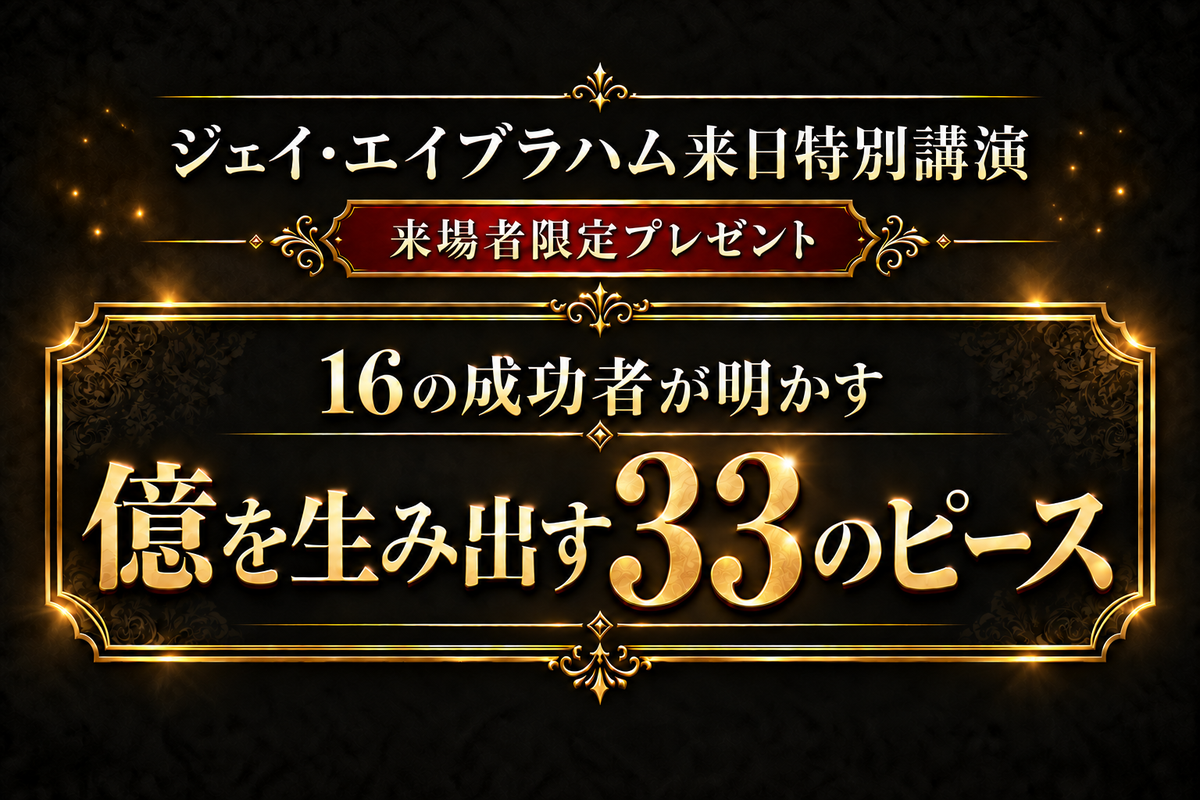
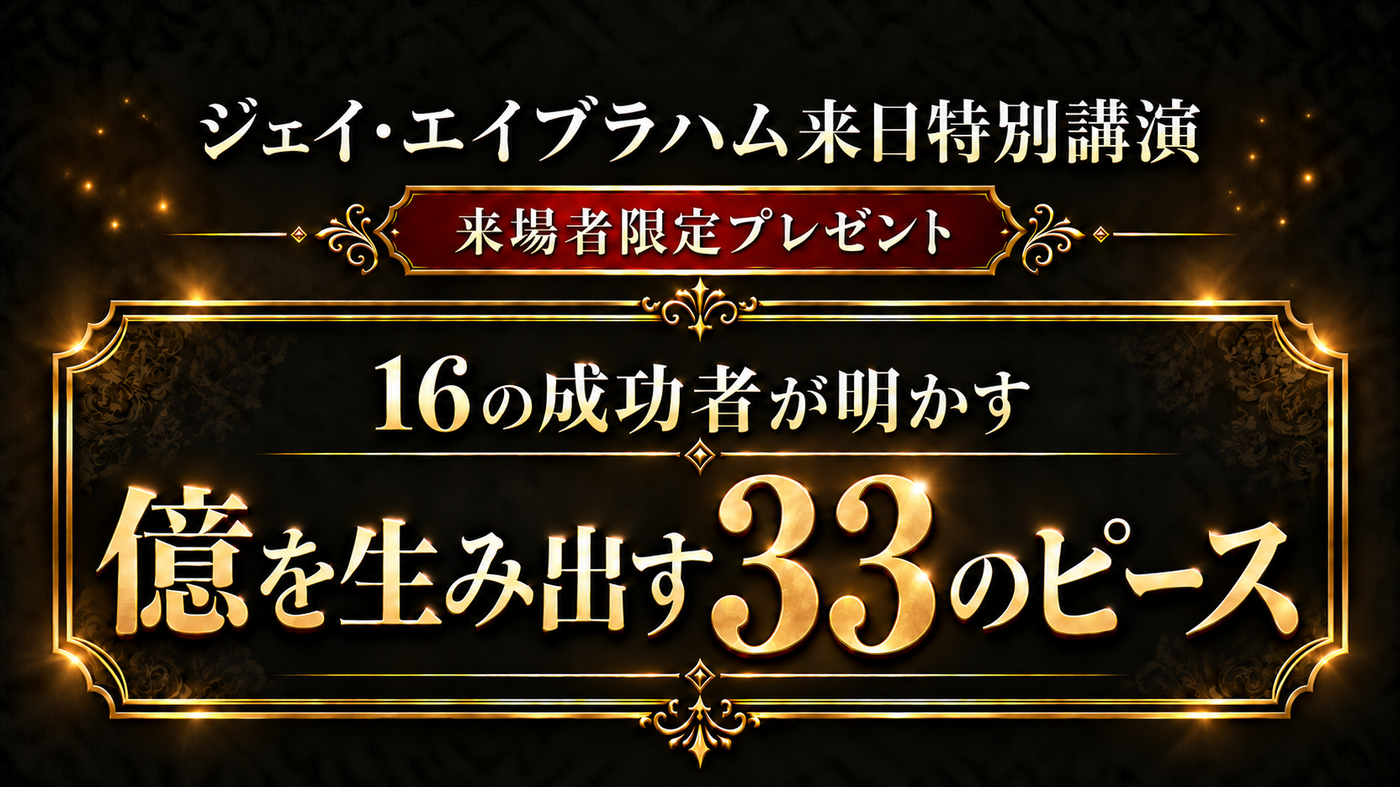
Add files via upload

diff --git a/jay-abraham-tokuten-html/index.html b/jay-abraham-tokuten-html/index.html
@@ -47,7 +47,7 @@
       position:relative;
       overflow:hidden;
       text-align:center;
-      padding:40px 20px 44px;
+      padding:40px 20px 0px;
       background:transparent;
     }
     .hero-banner{
@@ -108,7 +108,7 @@
       filter:drop-shadow(1px 0 0 #4a0705);
     }
     .cta-note{margin:14px 0 0;font-size:11.5px;color:#a99a78;letter-spacing:.02em;text-align:center;}
-    .list{position:relative;max-width:640px;margin:0 auto;padding:44px 20px 90px;background:transparent;}
+    .list{position:relative;max-width:640px;margin:0 auto;padding:4px 20px 90px;background:transparent;}
     .item{position:relative;z-index:1;}
     .item .pill-inner{
       font-family:"Shippori Mincho",serif;
@@ -141,8 +141,11 @@
     }
     .thumb svg.icon{width:34px;height:34px;stroke:rgba(209,169,74,0.55);z-index:1;}
     .thumb-img{position:absolute;inset:0;width:100%;height:100%;object-fit:cover;z-index:1;}
+    .excl{font-family:"Zen Kaku Gothic New","Hiragino Kaku Gothic ProN",sans-serif;font-style:normal;}
+    .sp-break{display:none;}
     @media (max-width:480px){
       .pill-inner{padding:14px 16px;}
+      .sp-break{display:inline;}
     }
 </style>
 </head>
@@ -157,7 +160,7 @@
   <div class="list-glow side-right" style="top:92%"></div>
   <section class="hero">
     <img class="hero-banner" src="hero-banner.png" alt="ジェイ・エイブラハム来日特別講演 来場者限定プレゼント 16の成功者が明かす 億を生み出す33のピース">
-    <p class="hero-copy serif">ジェイ・エイブラハム来日特別講演<br>来場者限定の豪華特典を今すぐお受け取りください！</p>
+    <p class="hero-copy serif">ジェイ・エイブラハム来日特別講演<br>来場者限定の豪華特典を<br class="sp-break">今すぐお受け取りください<span class="excl">！</span></p>
   </section>
   <div class="list">
     
